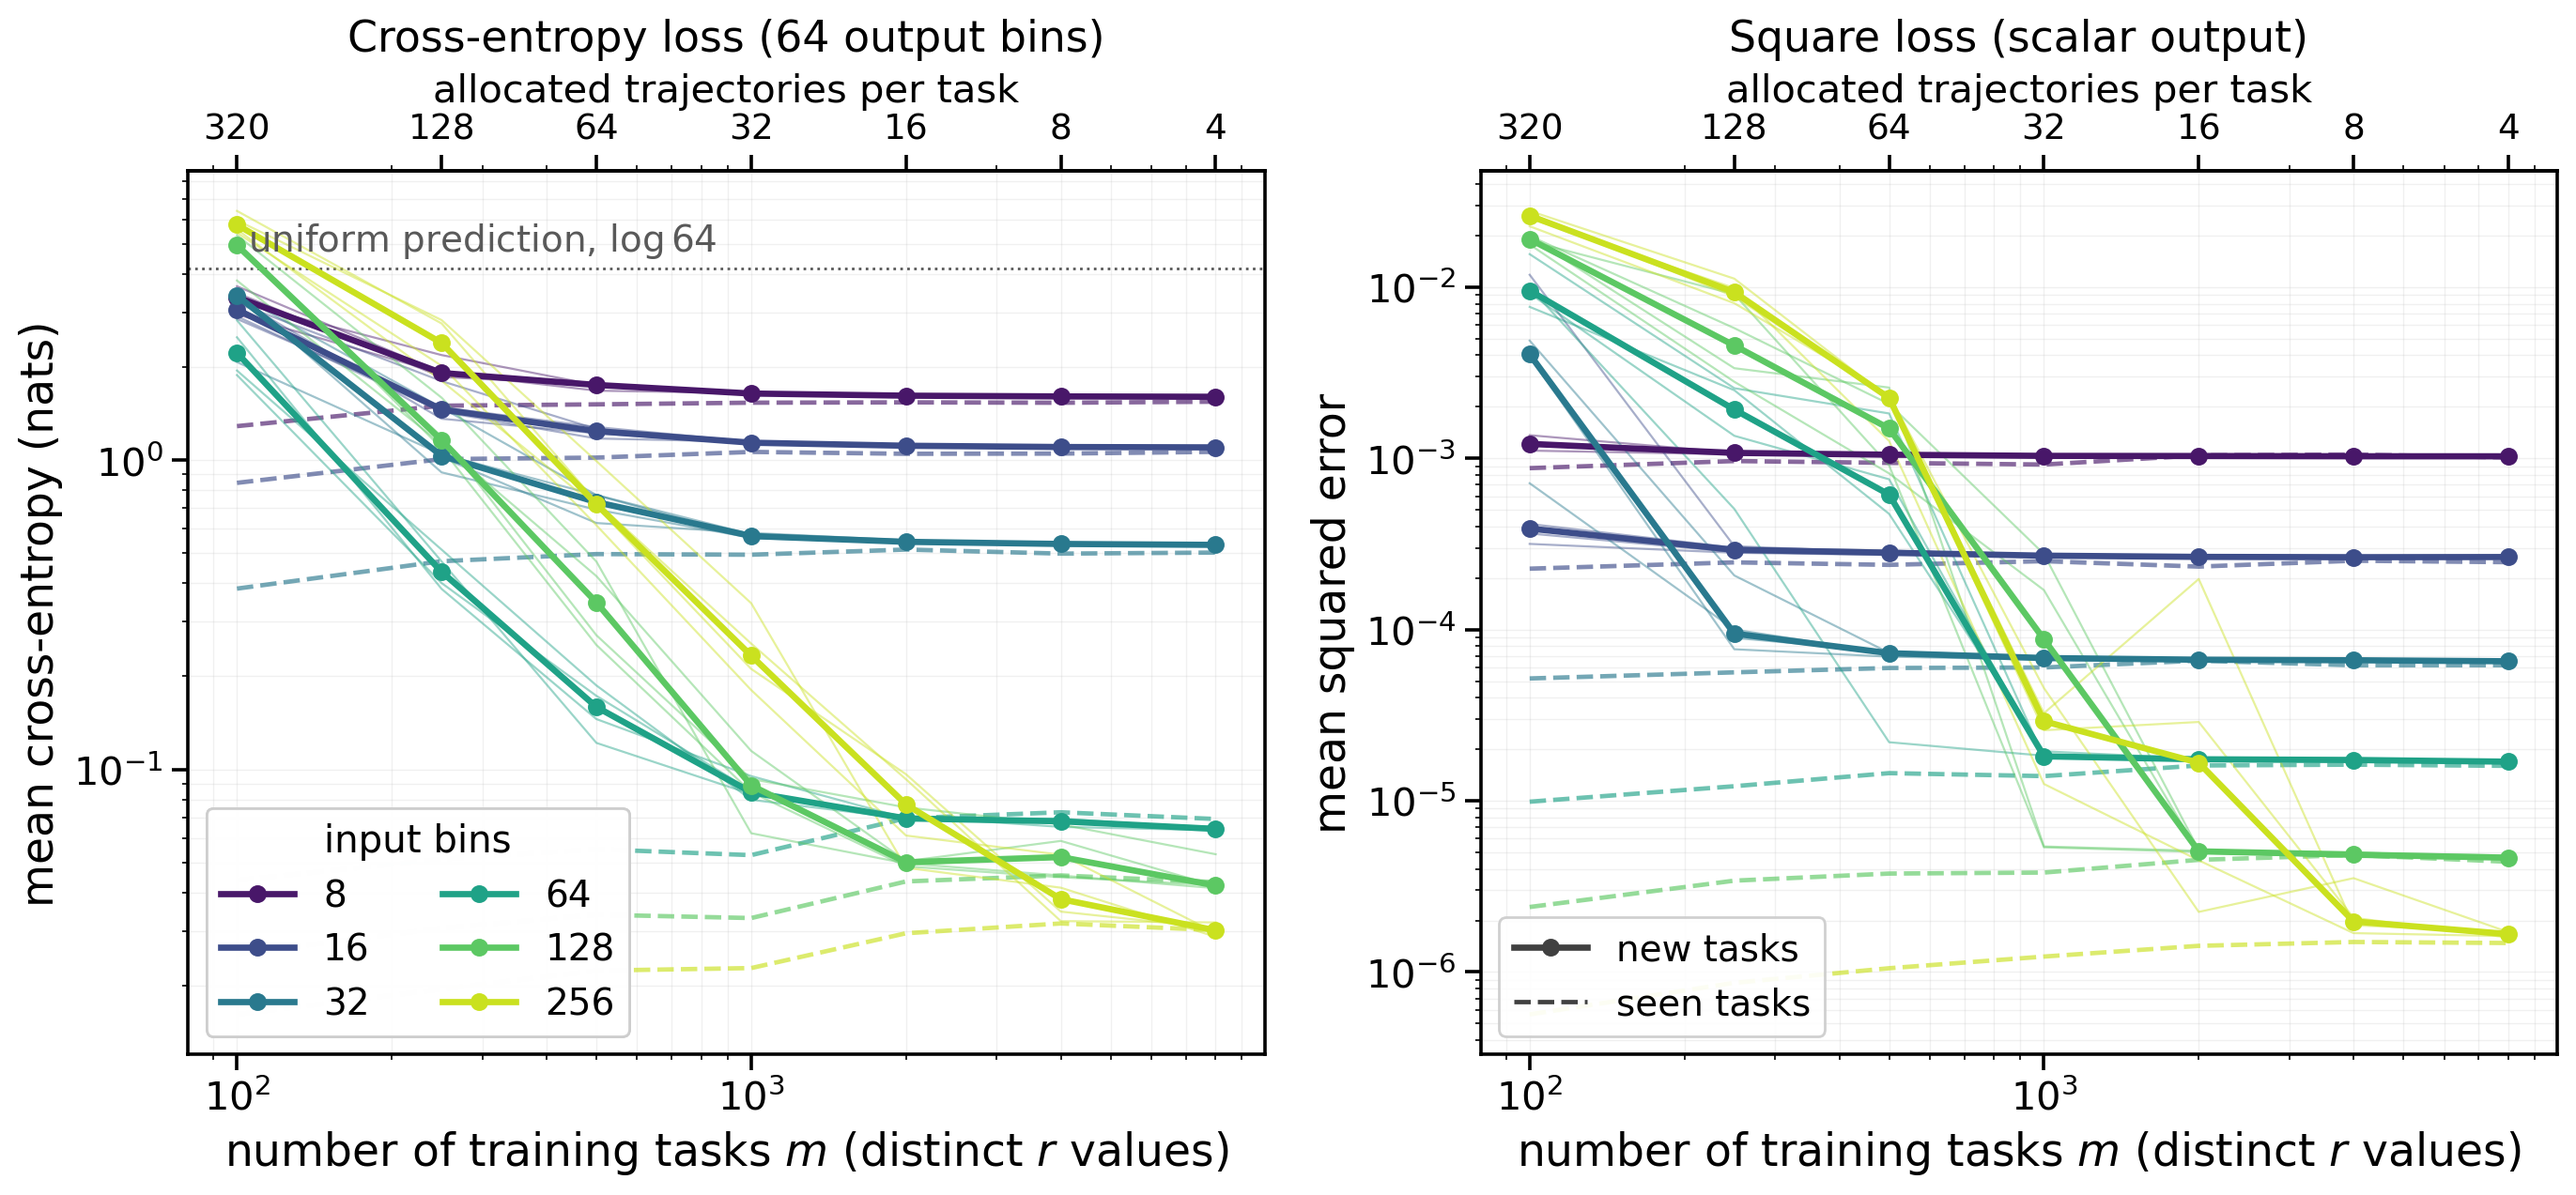
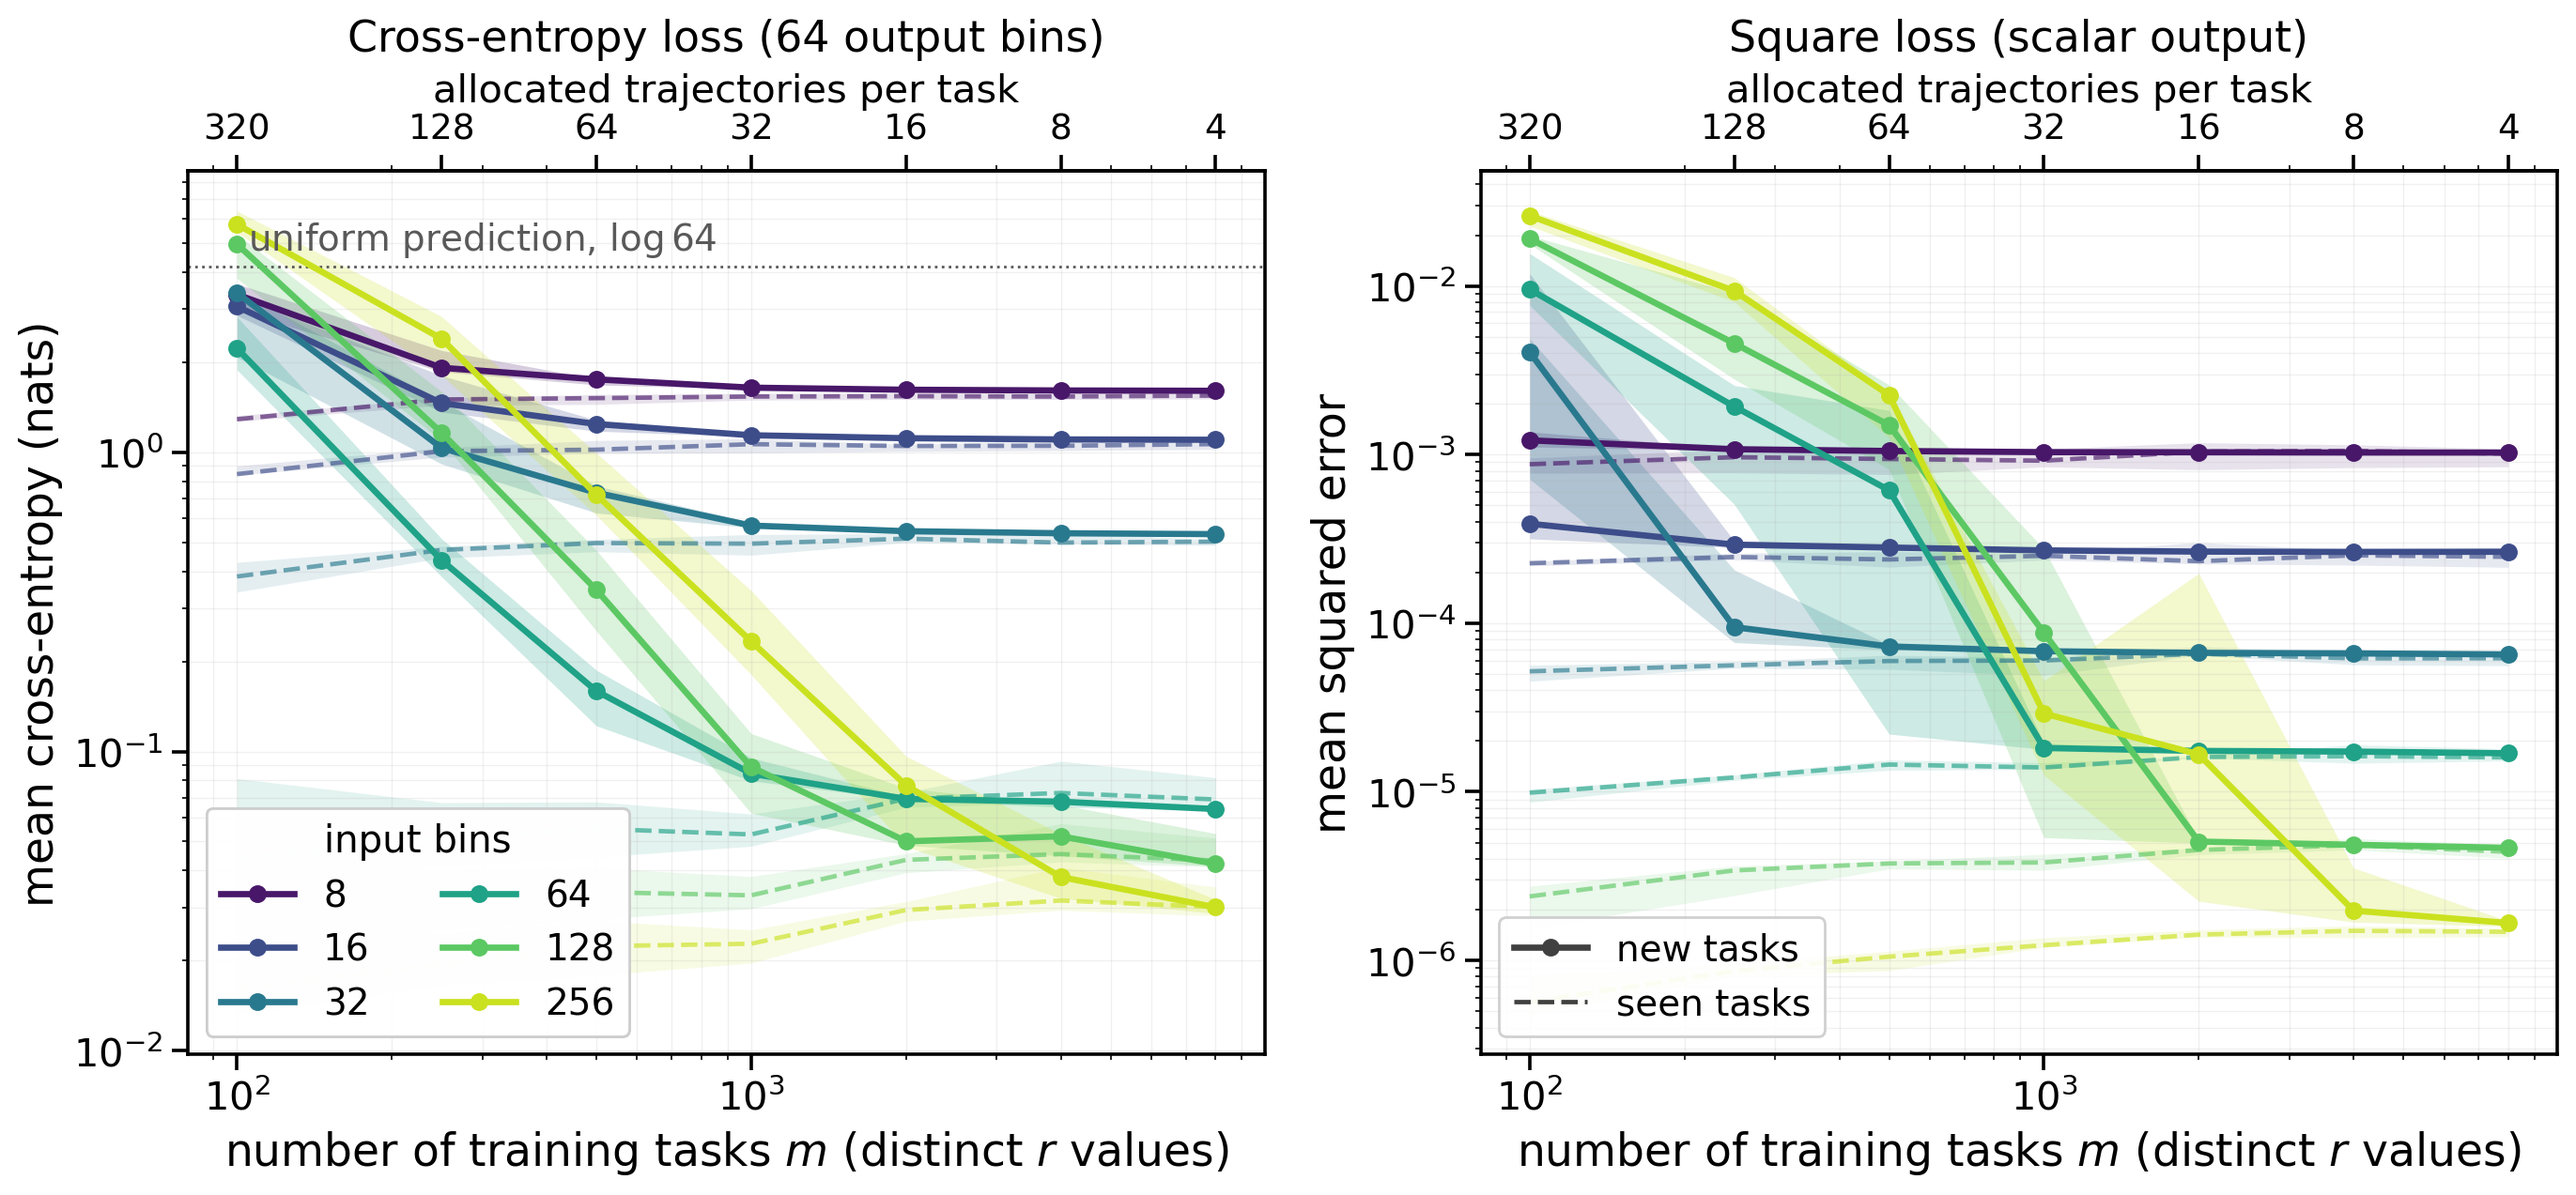
Shade the seed range on the gap figure
Median over four seeds with the full range filled, for both new and seen tasks,
in place of one thin line per seed.

Under cross-entropy the band is an ordinary range: the spread never exceeds 2x at
any arm. Under square loss it is not, at one point in each fine arm. The spread
there runs 83x at 64 bins, 52x at 128 and 88x at 256, sits exactly at that arm's
transition and falls to about 1x either side, because near the threshold a run
either generalises or does not. So the wide part of those bands spans two
branches rather than describing scatter about the median, and the median follows
whichever branch three of the four seeds landed on. Noted in the script so the
figure is not read as a smooth uncertainty.

diff --git a/scripts/plot_taskdiv_gap.py b/scripts/plot_taskdiv_gap.py
@@ -70,13 +70,12 @@ def load(tmpl, otag, m, key, seed=0):
     return np.load(p)[key]
 
 
-# Seeds are drawn individually rather than as a band. Under the square loss the
-# run-to-run spread is about 1x away from each arm's transition and 52x to 88x
-# at it, because near the threshold a run either generalises or does not; a
-# filled range there would merge two populations into one region and the median
-# would report whichever branch had the majority. Under cross-entropy the spread
-# never exceeds 2x and a band would have been safe, but one convention across
-# both panels is easier to read than two.
+# The seed range is shaded, with the median drawn over it. Read the square-loss
+# band with care at each arm's transition: the spread there is 52x to 88x against
+# about 1x either side, because a run near the threshold either generalises or
+# does not, so the fill spans two branches rather than describing scatter about
+# the median. Under cross-entropy the spread never exceeds 2x and the band is an
+# ordinary range.
 
 
 def main():
@@ -109,8 +108,10 @@ def main():
                 print(f"  [skip] {nbin} bins / {otag}: missing runs")
                 continue
             yn = np.array(per_seed_new); ys = np.array(per_seed_seen)
-            for row in yn:
-                ax.plot(MS, row, "-", lw=0.8, color=c, alpha=0.45, zorder=2)
+            ax.fill_between(MS, yn.min(0), yn.max(0), color=c, alpha=0.22,
+                            lw=0, zorder=1)
+            ax.fill_between(MS, ys.min(0), ys.max(0), color=c, alpha=0.12,
+                            lw=0, zorder=1)
             ax.plot(MS, np.median(yn, 0), "-o", ms=5.8, lw=2.4, color=c,
                     zorder=3, label=f"{nbin}")
             ax.plot(MS, np.median(ys, 0), "--", lw=1.7, color=c, alpha=0.65,
